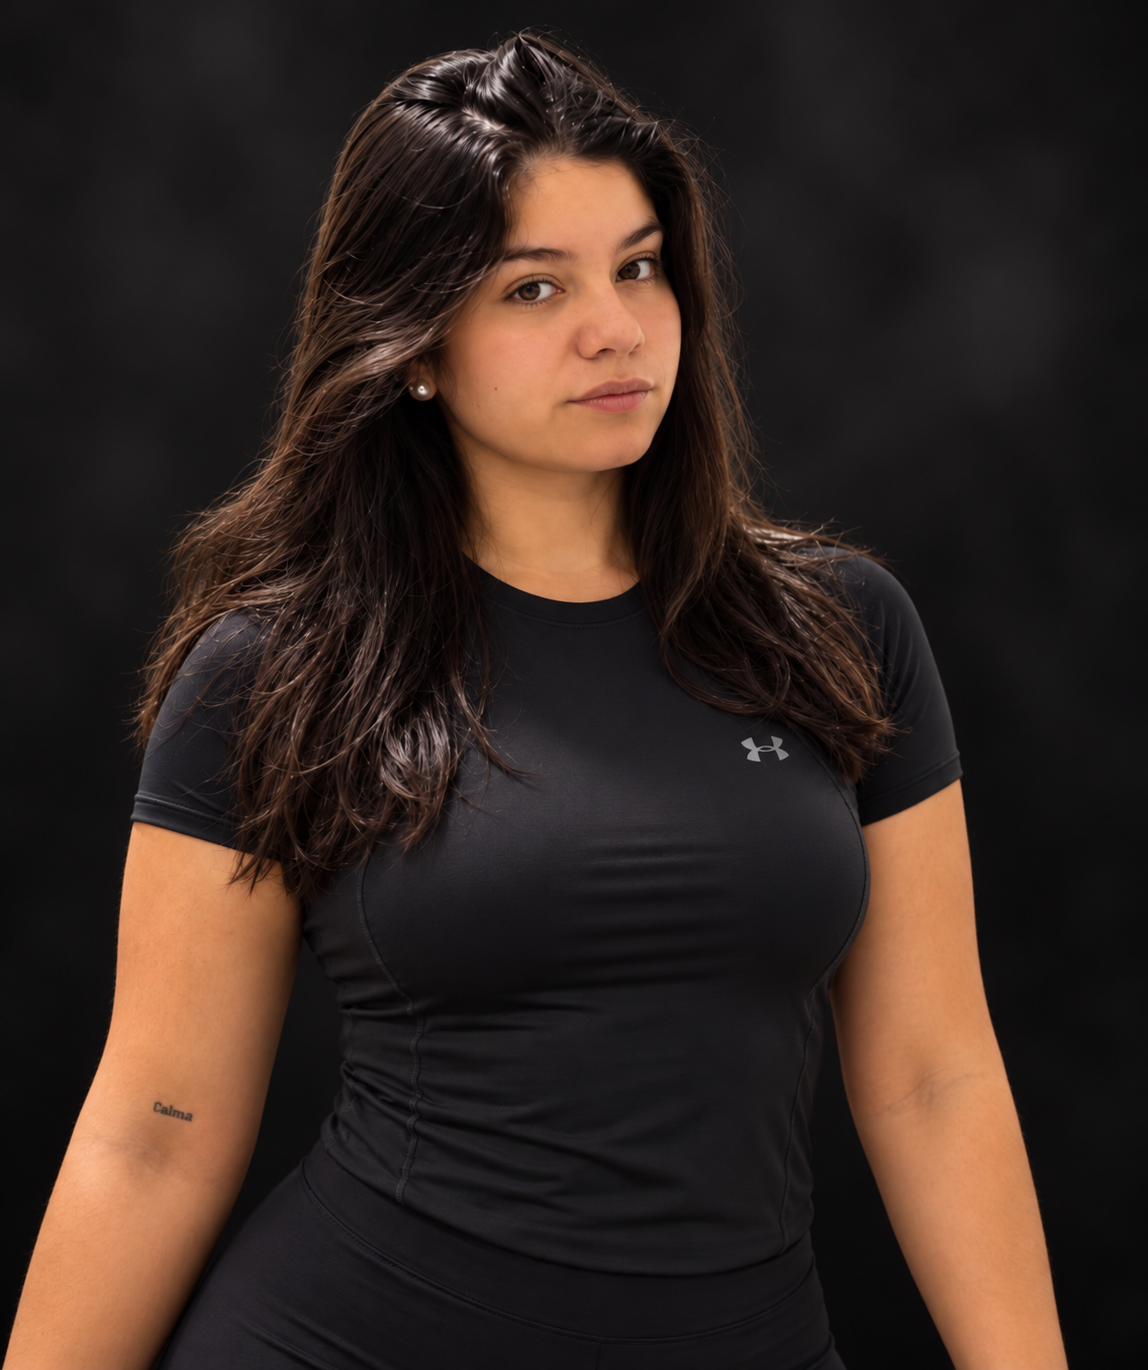
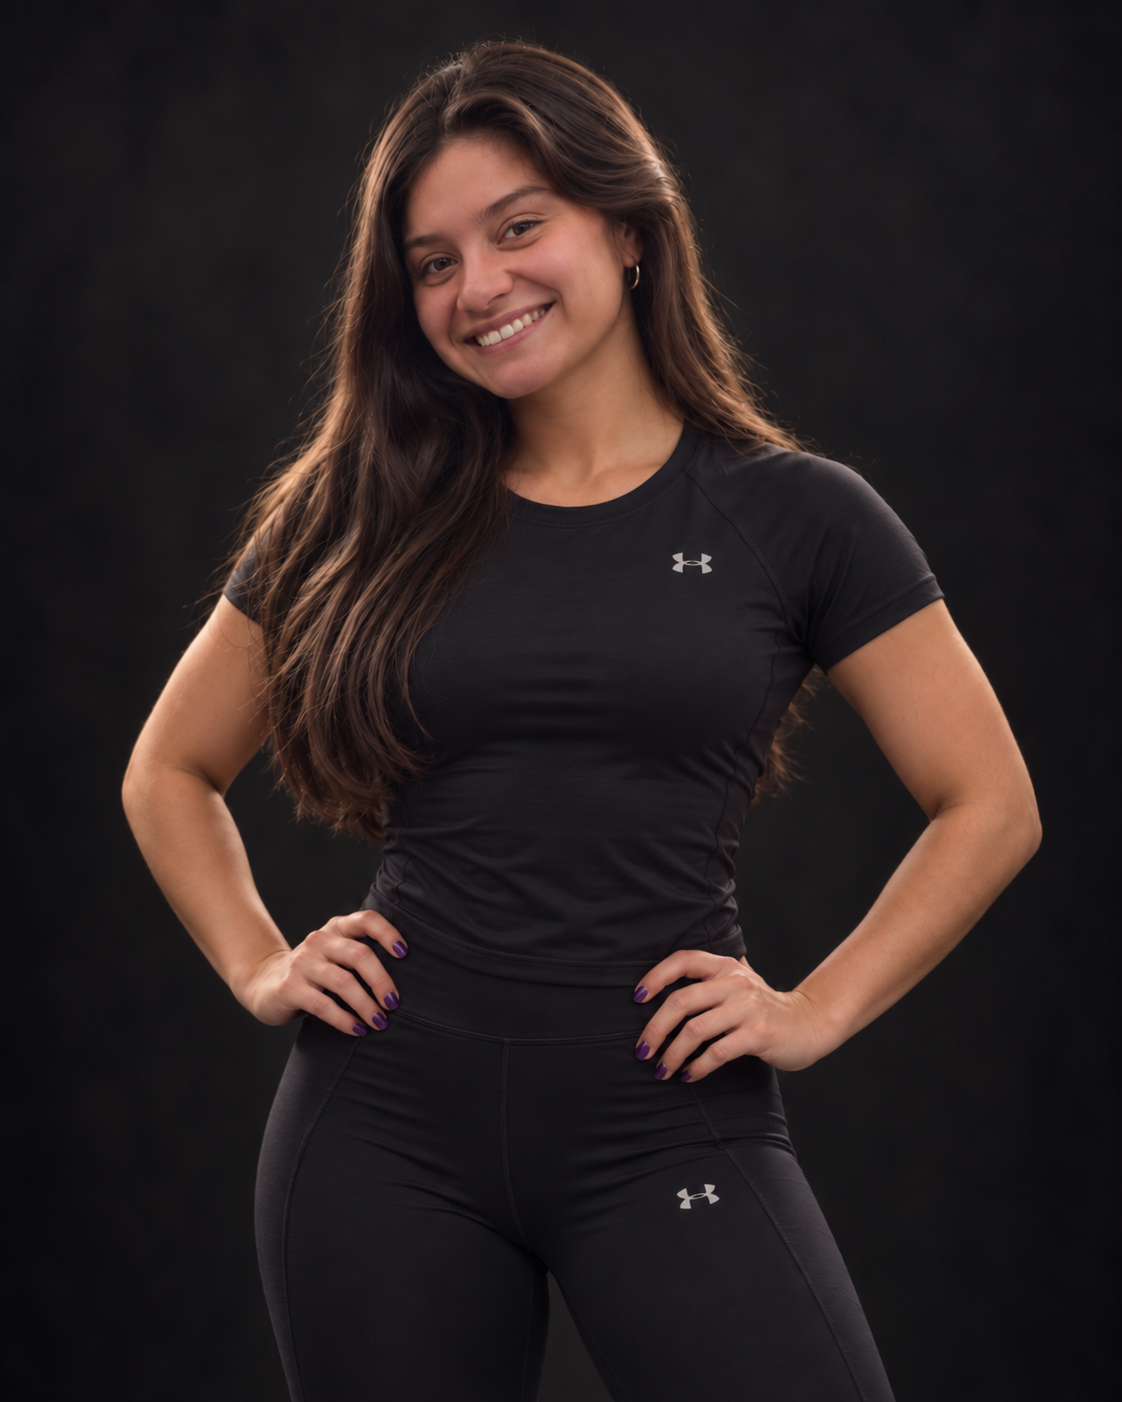
fix: preserve landing content when React fails

diff --git a/src/main.tsx b/src/main.tsx
@@ -234,8 +234,24 @@ const aboutRoot = document.getElementById('about-carousel-root')
 if (aboutRoot) createRoot(aboutRoot).render(<AboutCarousel />)
 const coachSection = document.getElementById('trainers')
 const coachRoot = document.createElement('div'); coachRoot.id = 'coach-carousel-root'
-if (coachSection) { coachSection.querySelector('.trainers')?.insertAdjacentElement('afterend', coachRoot); createRoot(coachRoot).render(<CoachCarousel />) }
+if (coachSection) {
+  coachSection.querySelector('.trainers')?.insertAdjacentElement('afterend', coachRoot)
+  try {
+    createRoot(coachRoot).render(<CoachCarousel />)
+    coachSection.classList.add('react-carousel-ready')
+  } catch (error) {
+    console.error('Coach carousel failed; keeping the static fallback visible.', error)
+  }
+}
 const plansSection = document.getElementById('planes')
 const plansRoot = document.createElement('div'); plansRoot.id = 'plans-carousel-root'
-if (plansSection) { plansSection.querySelector('.plans')?.insertAdjacentElement('afterend', plansRoot); createRoot(plansRoot).render(<PlansCarousel />) }
+if (plansSection) {
+  plansSection.querySelector('.plans')?.insertAdjacentElement('afterend', plansRoot)
+  try {
+    createRoot(plansRoot).render(<PlansCarousel />)
+    plansSection.classList.add('react-carousel-ready')
+  } catch (error) {
+    console.error('Plans carousel failed; keeping the static fallback visible.', error)
+  }
+}
 document.querySelector('.band h2 em')?.replaceChildren('Empezamos juntos.')

diff --git a/styles.css b/styles.css
@@ -25,7 +25,7 @@ html,body{overflow-x:hidden}.menu-toggle{min-width:44px;min-height:44px}
 @media(min-width:701px){.plans{grid-template-columns:repeat(3,1fr)}}
 
 /* React carousels replace the legacy static grids without changing page flow. */
-#trainers>.trainers,#planes .plans{display:none}
+#trainers.react-carousel-ready>.trainers,#planes.react-carousel-ready .plans{display:none}
 .card-carousel{overflow:hidden}
 .carousel-card-track{position:relative;min-height:clamp(19rem,32vw,24rem);display:grid;isolation:isolate}
 .card-carousel .carousel-card{grid-area:1/1;width:min(100%,24rem);margin:auto;opacity:0;visibility:hidden;filter:blur(5px);transform:translate3d(0,0,0) scale(.78);transition:transform .55s cubic-bezier(.2,.75,.25,1),opacity .55s ease,filter .55s ease,visibility .55s}
@@ -108,7 +108,7 @@ img,iframe,svg{max-width:100%}.button,.nav-cta,.text-link{touch-action:manipulat
 @media(prefers-reduced-motion:reduce){.about-carousel__slide{transition:none}}
 
 /* Final carousel state overrides keep adjacent previews visible. */
-#trainers>.trainers,#planes .plans{display:none}
+#trainers.react-carousel-ready>.trainers,#planes.react-carousel-ready .plans{display:none}
 .card-carousel{overflow:hidden}
 .carousel-card-track{position:relative;min-height:clamp(19rem,32vw,24rem);isolation:isolate}
 .card-carousel .carousel-card{filter:blur(5px);transform:translate3d(0,0,0) scale(.78);transition:transform .55s cubic-bezier(.2,.75,.25,1),opacity .55s ease,filter .55s ease,visibility .55s}
